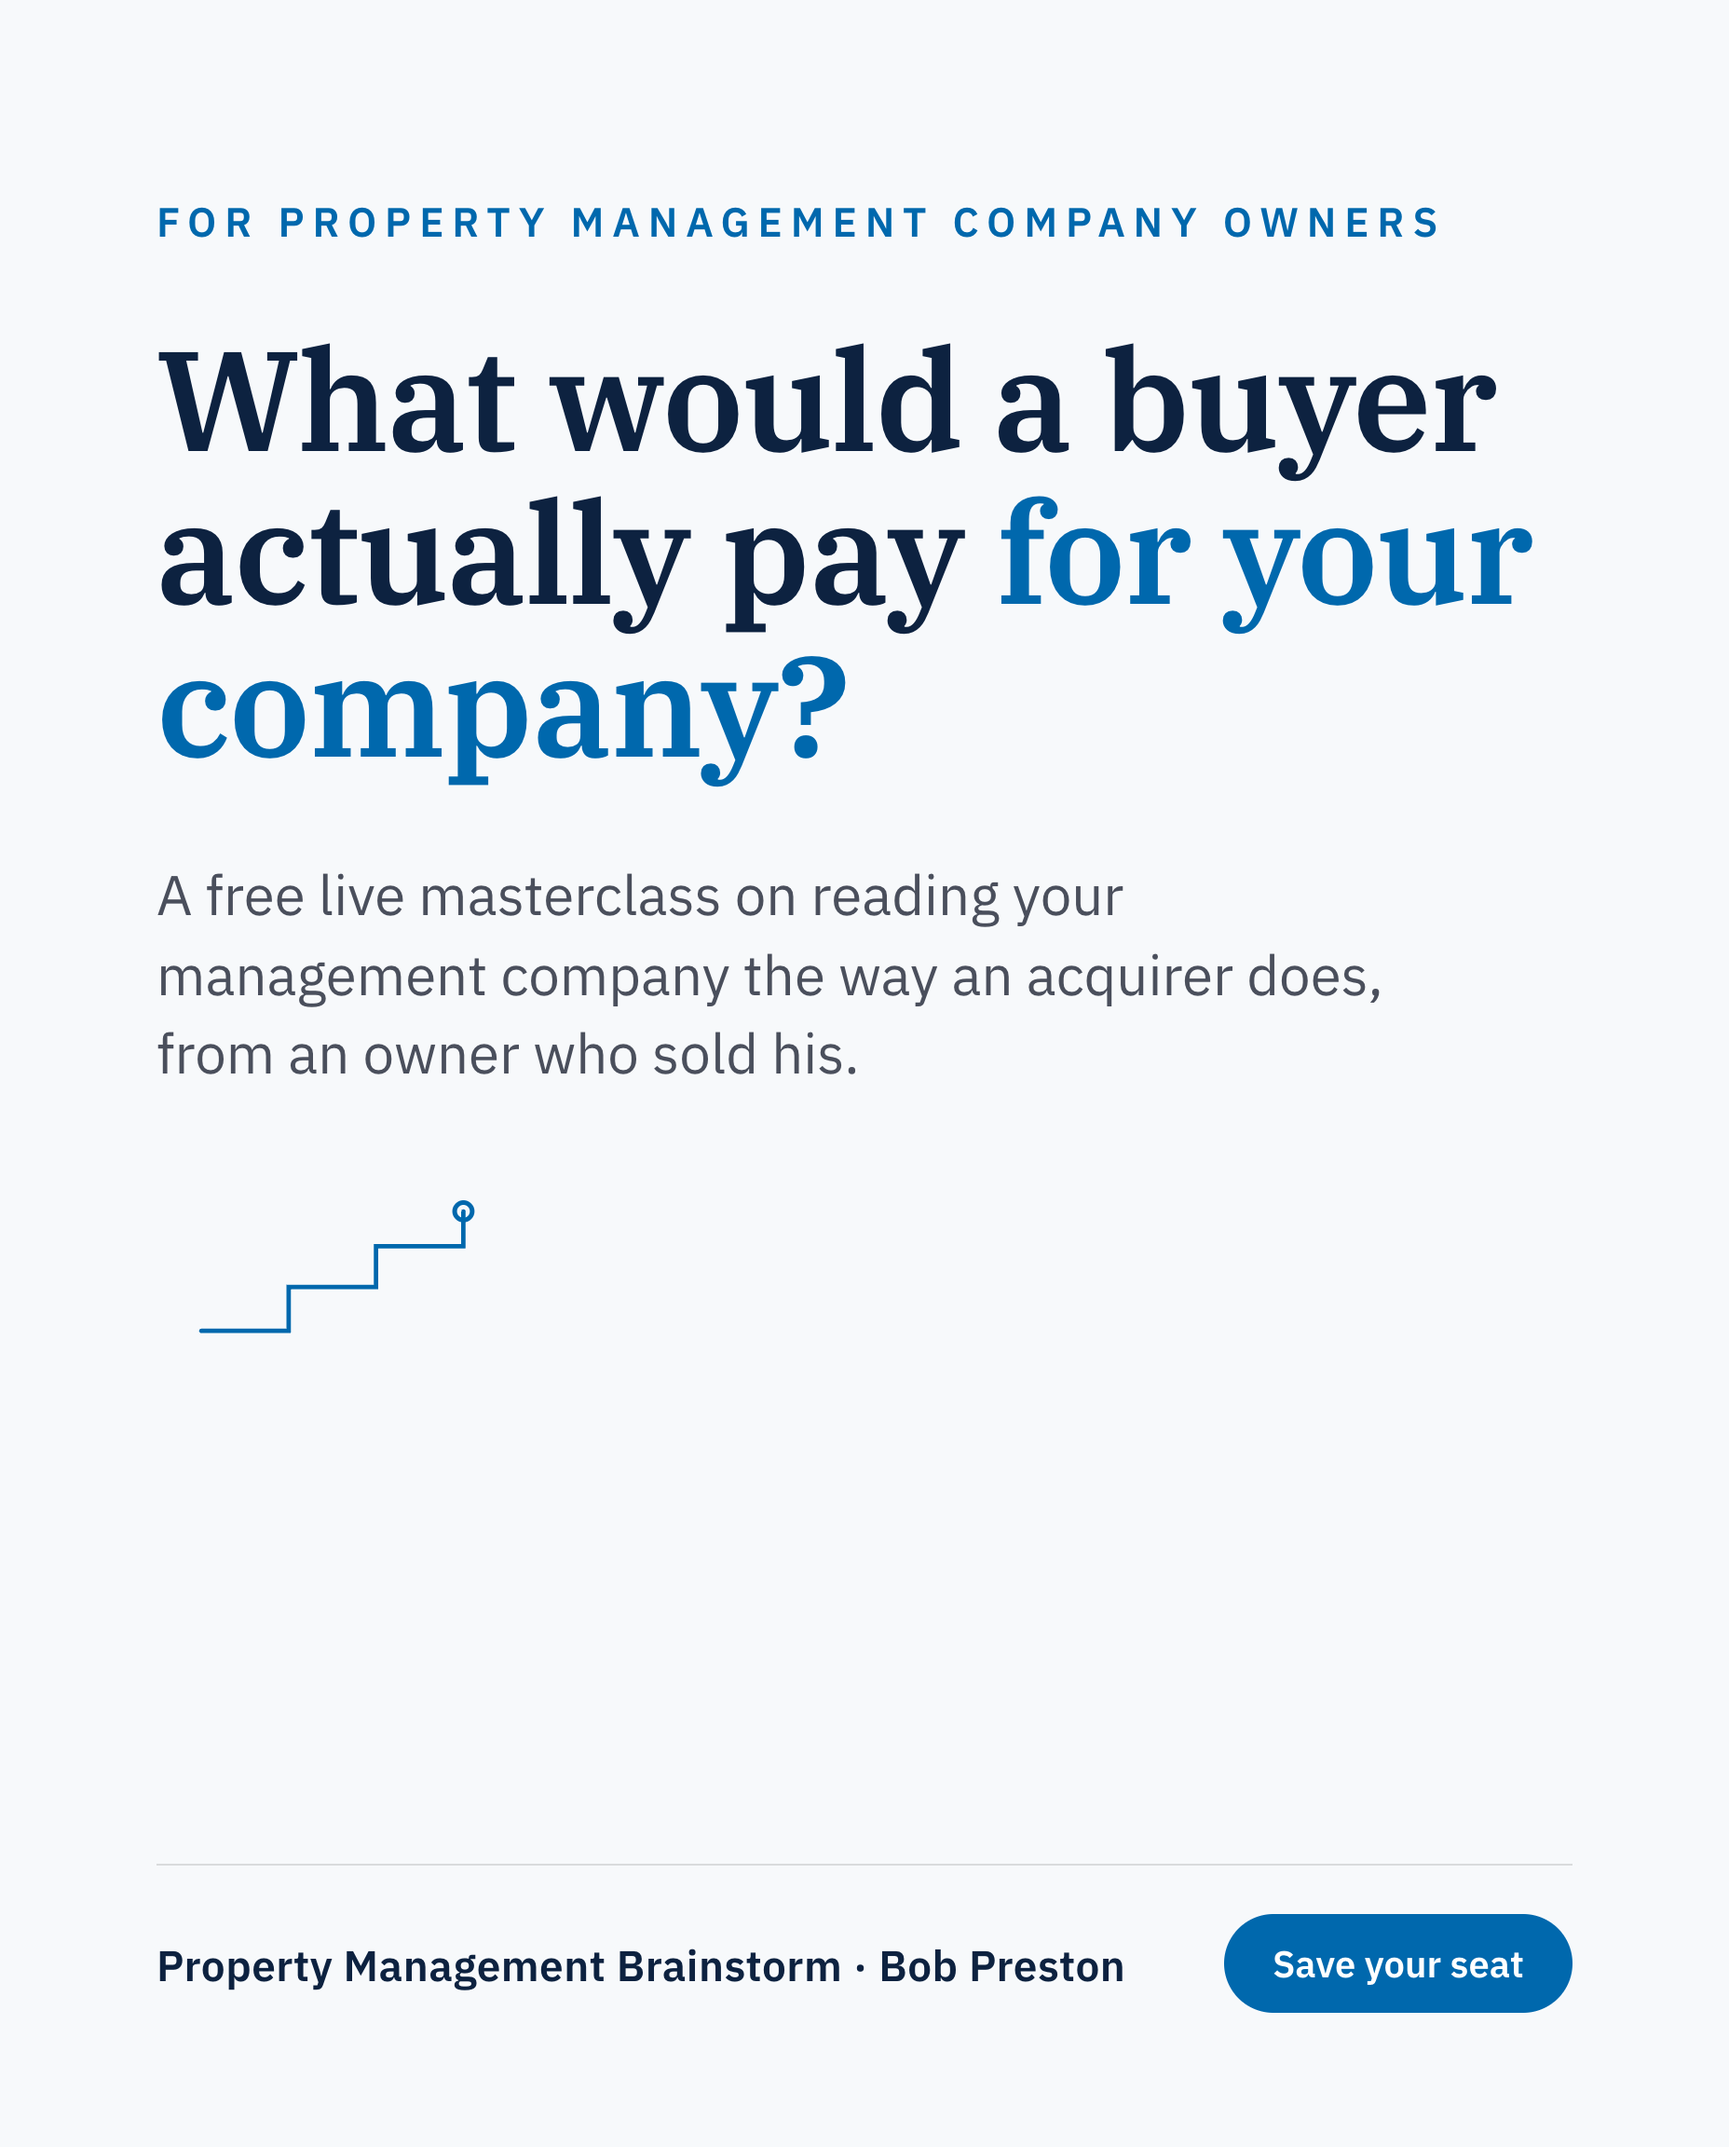
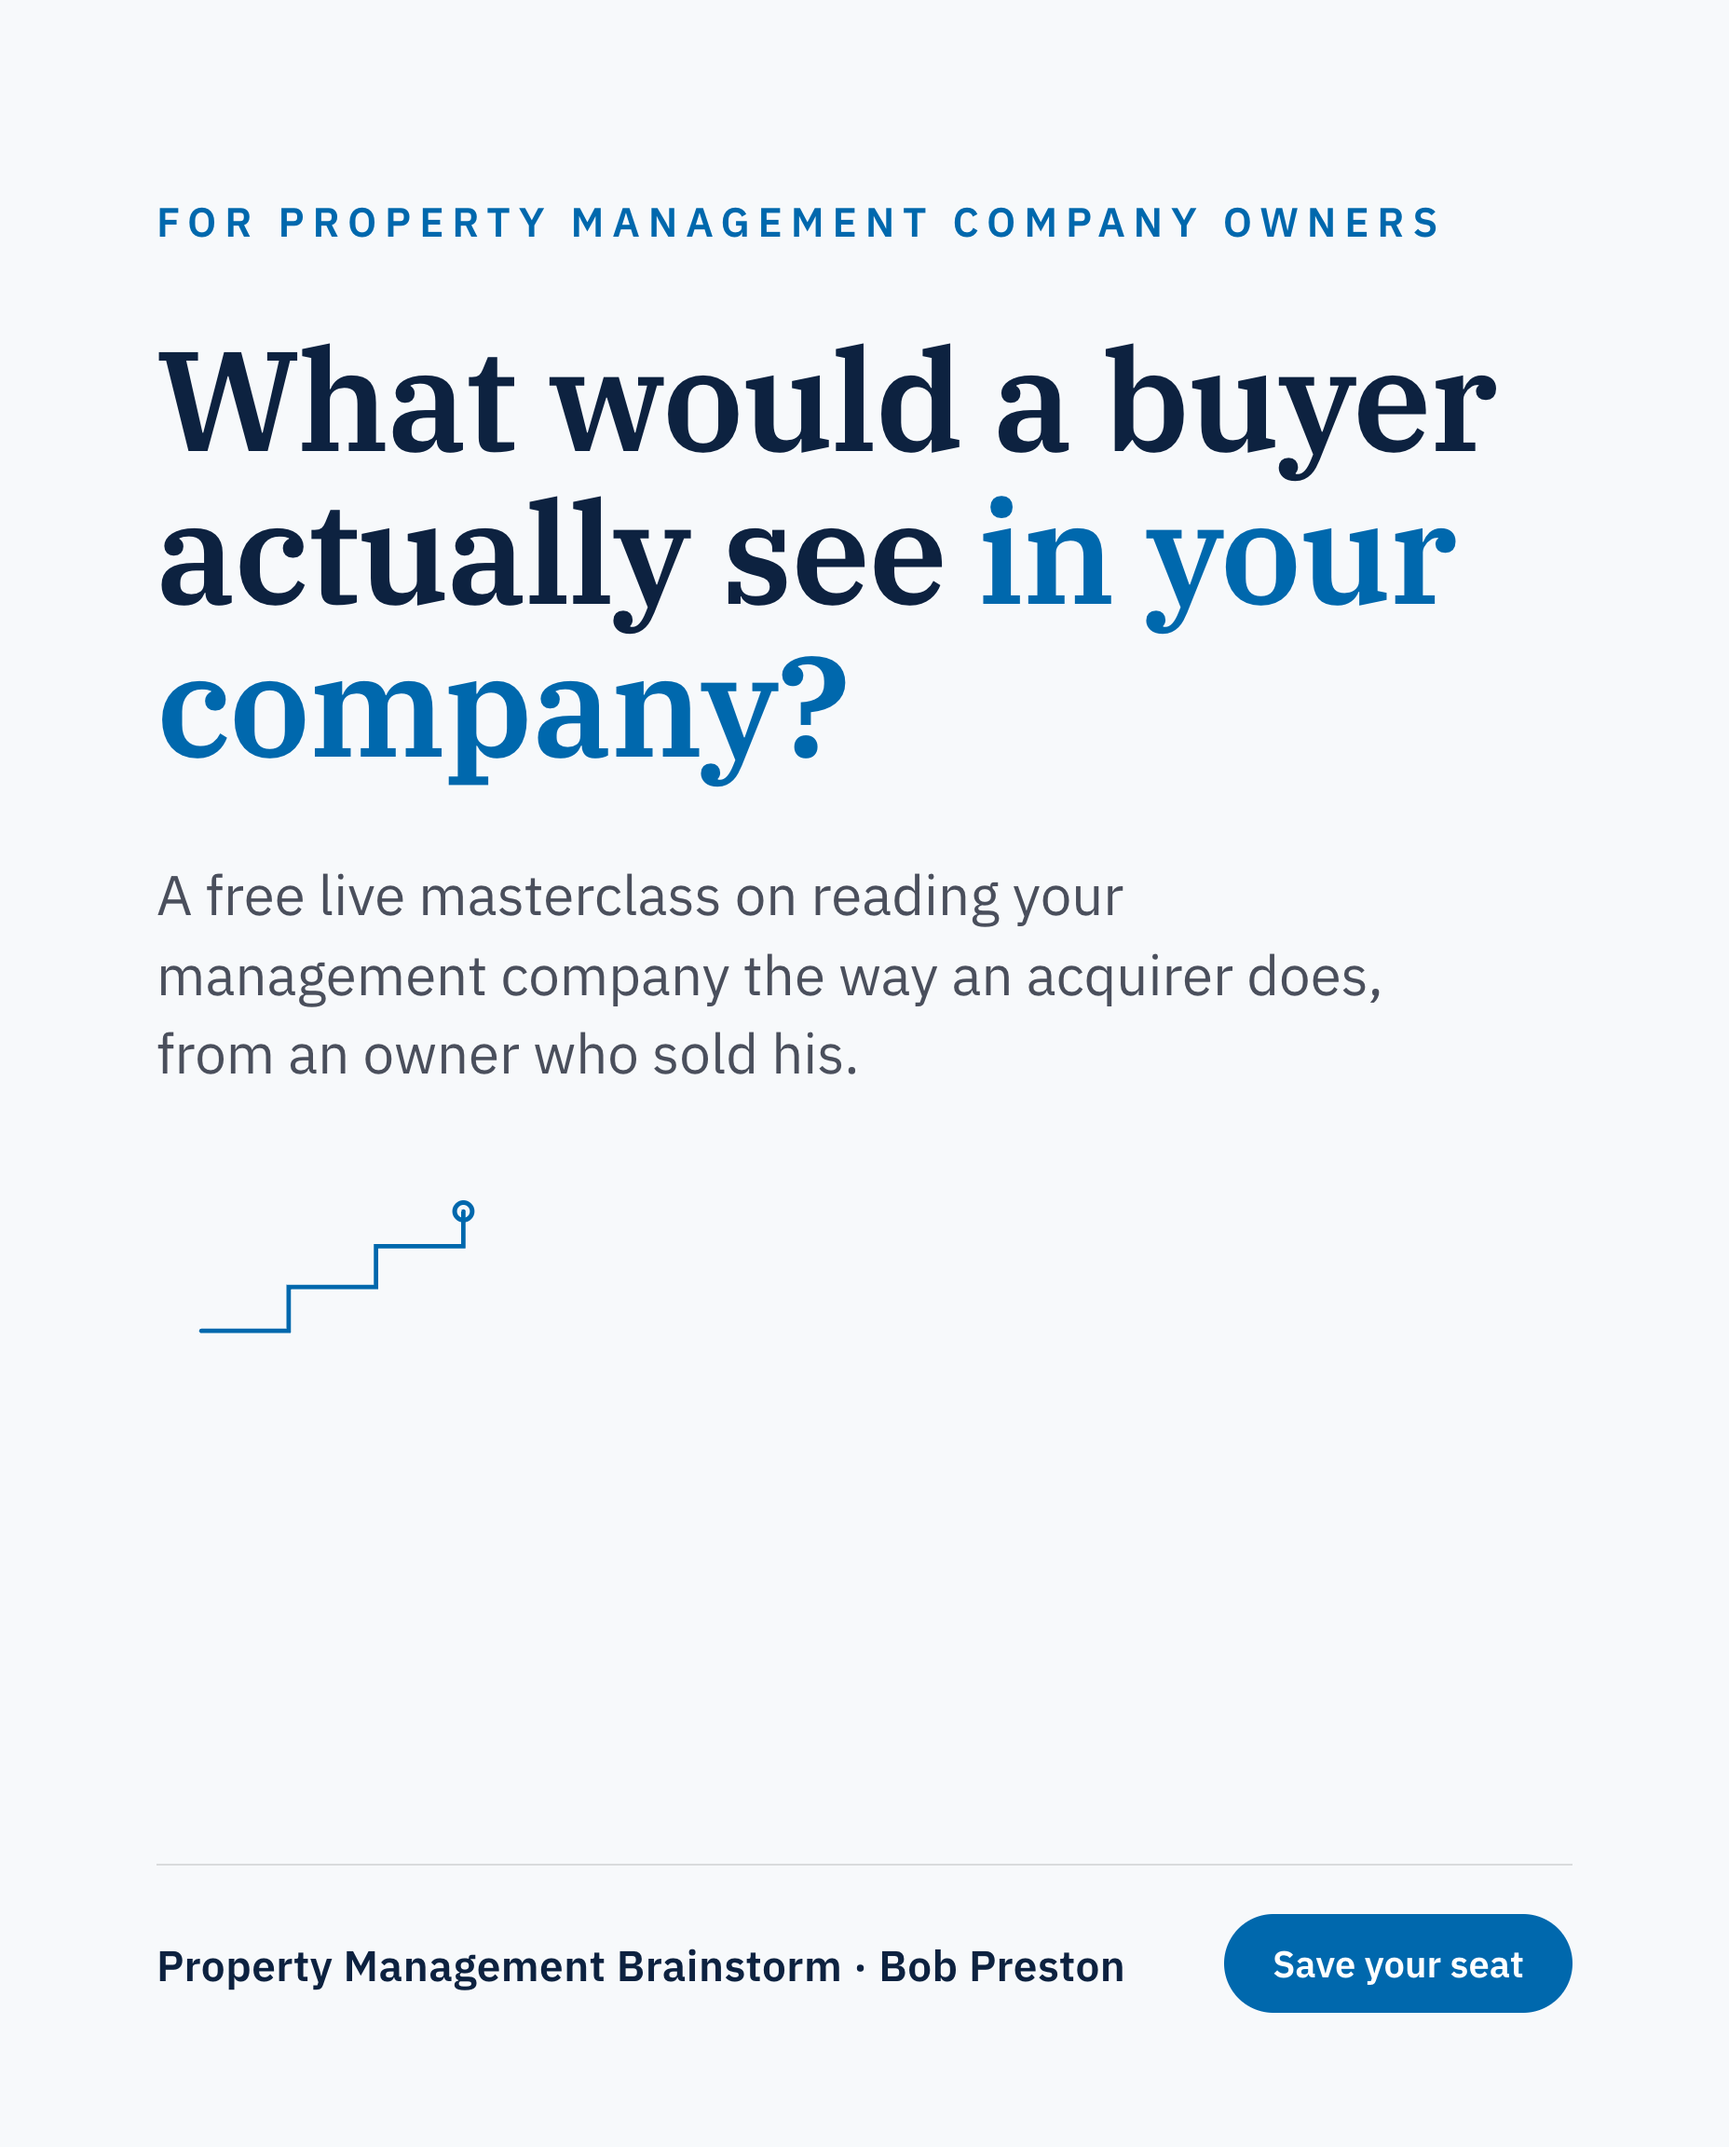
showcase: bob-preston

Changed region(s): [[0.4062, 0.2188, 0.875, 0.3125]]

diff --git a/bob-preston/index.html b/bob-preston/index.html
@@ -84,10 +84,10 @@
   <div class="section">
     <div class="section-label">Concepts to test first</div>
     <div class="ad-grid">
-      <img src="/bob-preston/ad01.png" alt="Concept ad one">
-      <img src="/bob-preston/ad02.png" alt="Concept ad two">
-      <img src="/bob-preston/ad03.png" alt="Concept ad three">
-      <img src="/bob-preston/ad04.png" alt="Concept ad four">
+      <img src="/bob-preston/ad01.png" alt="Ad concept: What would a buyer actually see in your company?">
+      <img src="/bob-preston/ad02.png" alt="Ad concept: He sold his PM company to PURE, then ran 28 offices and 12,000 doors">
+      <img src="/bob-preston/ad03.png" alt="Ad concept: A company that needs you every day is a job, not an asset">
+      <img src="/bob-preston/ad04.png" alt="Ad concept: 160 episodes, MPM, CRMC, one masterclass">
     </div>
   </div>
 
@@ -107,16 +107,17 @@
         <tr><td>Masterclass viewers</td><td>18</td><td>40</td></tr>
         <tr><td>Consultation-booking rate</td><td>10%</td><td>20%</td></tr>
         <tr><td>Free consultations booked / month</td><td>~2</td><td>~8</td></tr>
-        <tr class="hl"><td>New engagements / month at a $5,000 benchmark</td><td>~$5,000 / mo</td><td>~$15,000 / mo</td></tr>
+        <tr><td>Engagements closed / month</td><td>1</td><td>3</td></tr>
+        <tr class="hl"><td>New revenue added each month</td><td>~$5,000 / mo</td><td>~$15,000 / mo</td></tr>
       </tbody>
     </table>
-    <p class="fn">The revenue row assumes 1 and 3 closed engagements a month at a $5,000 conservative industry benchmark for an initial property management consulting engagement. That figure is not your price and is not presented as it; it exists so the math resolves to a bottom line. One engagement at that benchmark covers the month's spend more than three times over, and your consultation process stays exactly as it is.</p>
+    <p class="fn">The engagement rows assume 1 of 2 and 3 of 8 consultations close, stated here as assumptions, at a $5,000 conservative industry benchmark for an initial property management consulting engagement. That figure is not your price and is not presented as it; it exists so the math resolves to a concrete revenue line, before ad spend and delivery costs. One engagement at that benchmark covers the month's spend more than three times over, and your consultation process stays exactly as it is.</p>
   </div>
 
   <div class="section">
     <div class="section-label">Who is buying the owner's attention</div>
     <h2>The auction, verified</h2>
-    <p>What the Meta auction around property management owners looks like, checked directly this week.</p>
+    <p>What the Meta auction around property management owners looks like, checked directly in late August.</p>
     <table>
       <thead>
         <tr><th>Name</th><th>Lane</th><th>Active Meta ads</th></tr>
@@ -127,7 +128,7 @@
         <tr class="you"><td>Property Management Brainstorm / Bob Preston</td><td>Consulting, coaching and mentoring for PM companies</td><td class="not-running">Not running, none found</td></tr>
       </tbody>
     </table>
-    <p class="fn">Owners scroll the same feed as everyone else. The one coaching advertiser buying their attention sells the marketing and growth angle, and it is spending real money there, which proves owners respond to education in that feed. Nobody in the auction teaches what you have actually done: build a company, sell it well, and run the buyer's side after. That lane is wide open for you, and the missing piece is paid traffic into the masterclass above.</p>
+    <p class="fn">Owners scroll the same feed as everyone else. DoorGrow is in that feed selling the marketing and growth angle, spending real money there day after day, which means owner attention is being bought with education already. No one we could find in the auction teaches what you have actually done: build a company, sell it well, and run the buyer's side after. That lane is wide open for you, and the missing piece is paid traffic into the masterclass above.</p>
   </div>
 
   <div class="section calendly-section">

diff --git a/bob-preston/deck.html b/bob-preston/deck.html
@@ -11,8 +11,8 @@
 <style>
   *,*::before,*::after{margin:0;padding:0;box-sizing:border-box}
   :root{
-    /* Palette derived from the Property Management Brainstorm podcast art (see
-       01-deep-research.md ## Palette): white-dominant ground, one blue family. */
+    /* Palette derived from the Property Management Brainstorm podcast art:
+       white-dominant ground, one blue family. */
     --bg:#f7f9fb; --panel:#0d2240; --rule:#dbe4ec;
     --ink:#0d2240; --accent:#0068ad; --sky:#1ea5e0; --grey:#4a5a72; --dim:#8494aa;
   }
@@ -88,13 +88,13 @@
 
 <script>
 const S = [
- {t:'title',title:'The Exit-Ready Property Management Company',sub:'A masterclass for property management company owners on building a company a buyer would pay for, whether or not you ever plan to sell it.',brand:true,arc:'title'},
+ {t:'title',title:'The Exit-Ready Property Management Company',sub:'A masterclass for property management company owners on building a company a buyer would pay for, whether or not you ever plan to sell it.',brand:true},
  {t:'normal',k:'Who this is for',title:'You are adding doors and defending fees, inside a company that cannot run a week without you.',body:'Most growth advice sold to property management owners is about the next door: marketing, BDM tactics, lead flow. Meanwhile the company itself, the contracts, the fee schedule, the processes, the team, runs however it has always run. That is the part a buyer reads first, and it is the part that decides what the whole thing is worth.'},
  {t:'dark',title:'A company that needs you every day is a job. A buyer pays for a company that does not.'},
 
  {t:'section',idx:'Part One',title:'What a Buyer Actually Reads'},
  {t:'normal',k:'The diligence lens',title:'An acquirer does not buy your door count. They read what sits underneath it.',body:'Management contract quality. Owner churn and how long clients actually stay. What the fee schedule really collects per door, not what the rate card says. Whether the operation runs on documented process or on the owner’s memory. Bob has sat on both sides of that reading: he sold his own company to PURE Property Management, then spent the years after integrating acquired portfolios as a regional executive.'},
- {t:'normal',k:'The owner-dependence test',title:'Who signs the new management agreement? Who handles the angry owner? Who decides the fee exception?',body:'If every answer is you, the company’s value walks out the door every evening at whatever time you leave. Owner-dependence is the single discount a buyer applies hardest, and it is also the thing that makes the company exhausting to own in the meantime.'},
+ {t:'normal',k:'The owner-dependence test',title:'Who signs the new management agreement? Who handles the angry owner? Who decides the fee exception?',body:'If every answer is you, the company’s value walks out the door every evening at whatever time you leave. Owner-dependence is one of the deepest discounts a buyer applies, and it is also the thing that makes the company exhausting to own in the meantime.'},
  {t:'dark',title:'Run it like it is for sale, even if you never sell. What a buyer pays for is exactly what makes it better to own.'},
 
  {t:'section',idx:'Part Two',title:'The Exit-Ready Operating Frame'},
